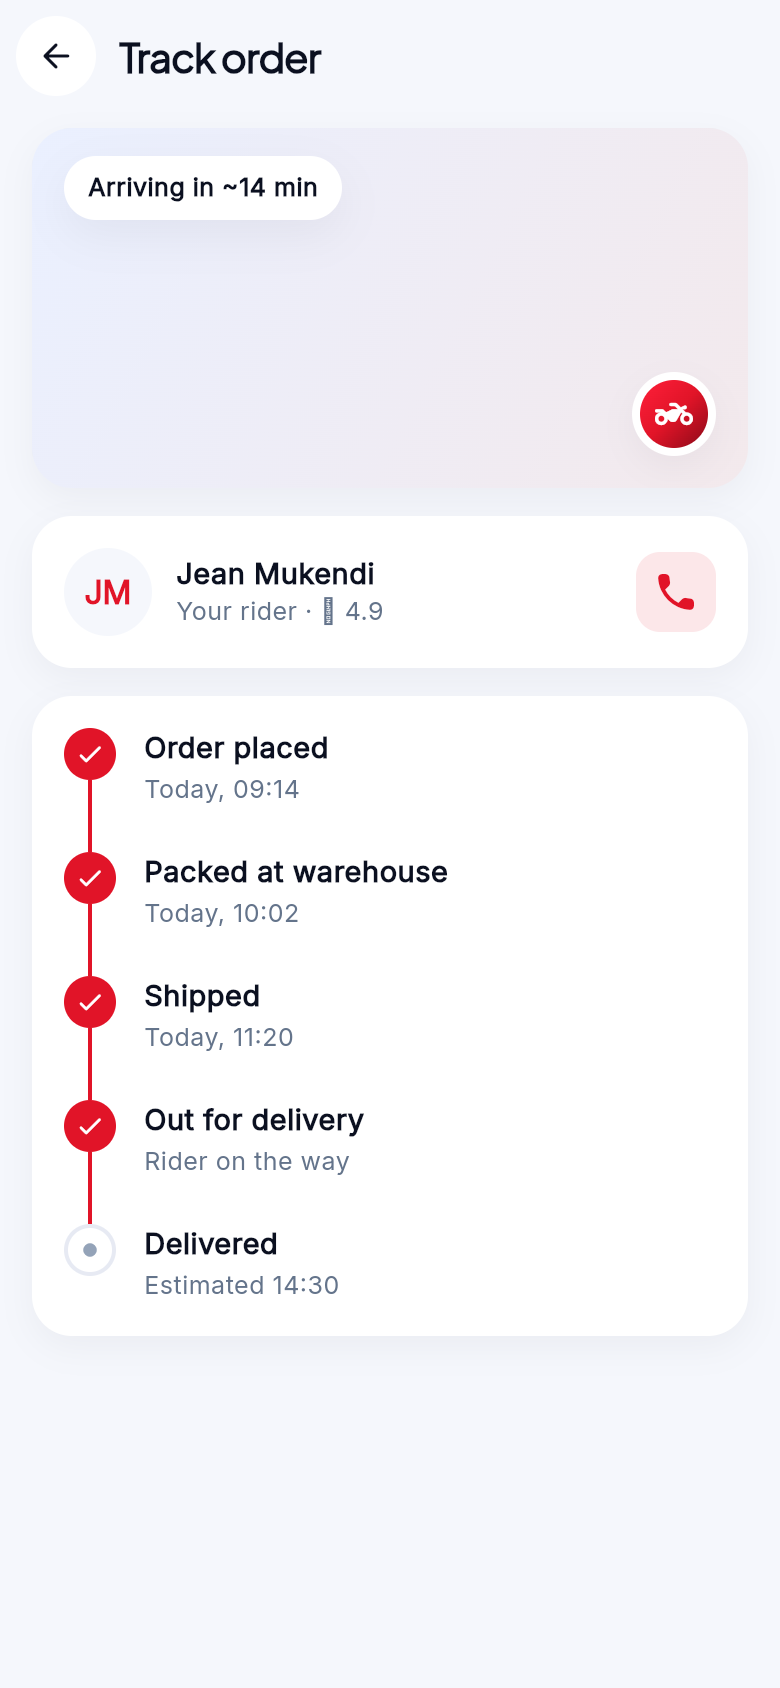
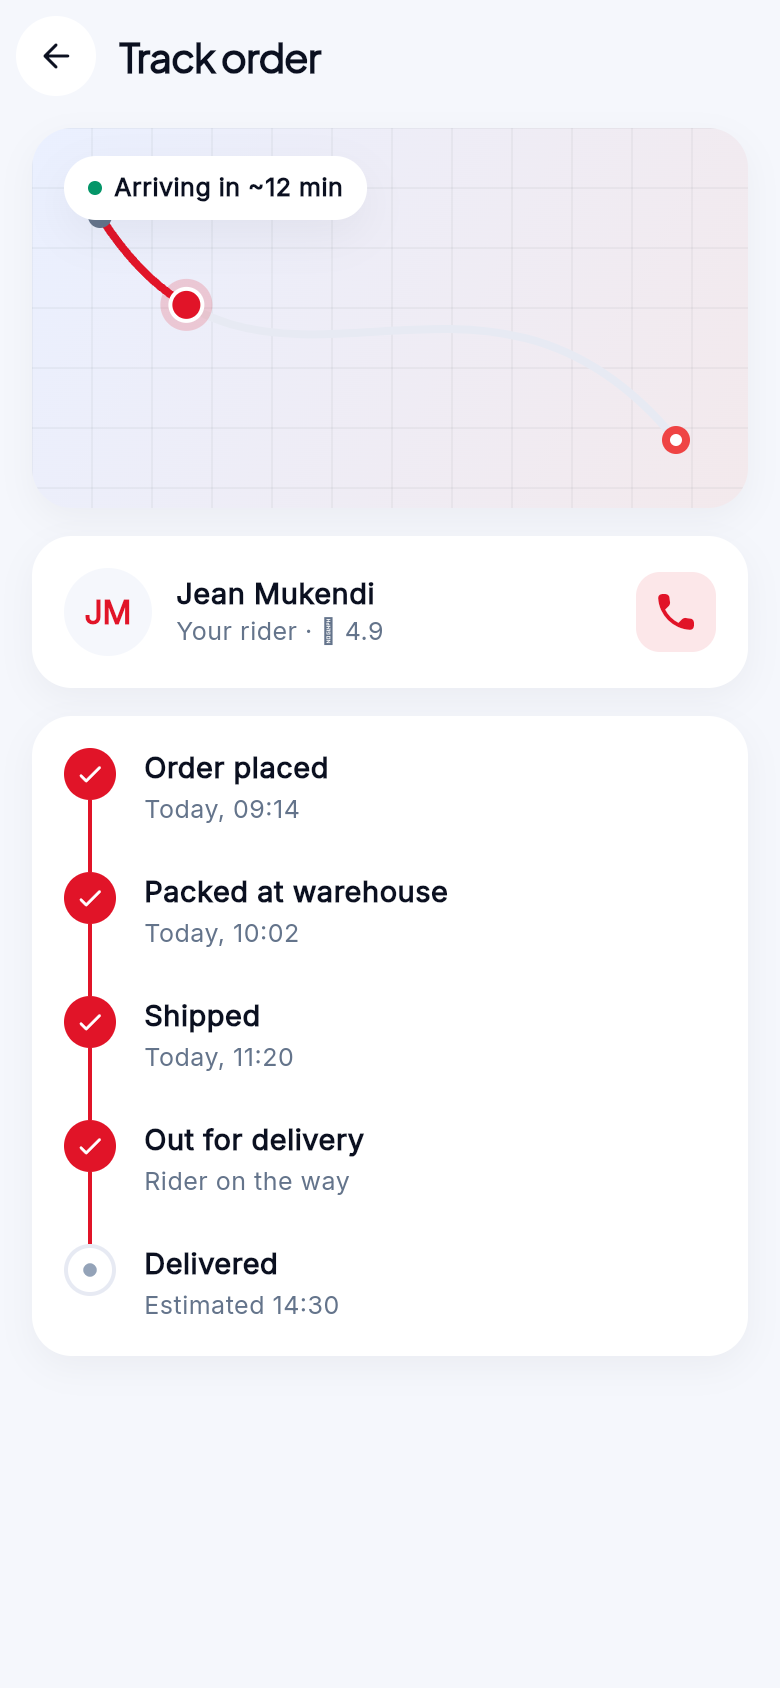
Customer app: Phase 3 detail flows (dual currency, persistence, live map) (#69)
* Customer app: Phase 3 detail flows (dual currency, persistence, live map)

- Dual-currency display: in the DRC market, prices show CDF (FC) with the
  USD equivalent underneath (product detail price, checkout total); France
  stays single-currency.
- Follow-store & session persistence: followed stores, read notifications and
  the selected delivery zone are saved via shared_preferences and restored on
  launch (ShopState.load in main, save on mutations).
- Live order tracking: animated rider marker travelling along a Bézier route
  with a highlighted travelled path and a live "Arriving in ~N min" countdown.

Adds shared_preferences dependency. flutter analyze clean, smoke test passes.

Claude-Session: https://claude.ai/code/session_01WULNhyKuKz82d48qJ3JnqT

* docs: Phase 3 screenshots (live tracking map, DRC dual-currency)

Claude-Session: https://claude.ai/code/session_01WULNhyKuKz82d48qJ3JnqT

---------

diff --git a/mobile/lib/screens/more/order_screens.dart b/mobile/lib/screens/more/order_screens.dart
@@ -101,9 +101,23 @@ class OrderDetailScreen extends StatelessWidget {
       ]);
 }
 
-class OrderTrackingScreen extends StatelessWidget {
+class OrderTrackingScreen extends StatefulWidget {
   final Locale locale;
   const OrderTrackingScreen({super.key, this.locale = const Locale('en')});
+
+  @override
+  State<OrderTrackingScreen> createState() => _OrderTrackingScreenState();
+}
+
+class _OrderTrackingScreenState extends State<OrderTrackingScreen> with SingleTickerProviderStateMixin {
+  late final AnimationController _c =
+      AnimationController(vsync: this, duration: const Duration(seconds: 16))..repeat();
+
+  @override
+  void dispose() {
+    _c.dispose();
+    super.dispose();
+  }
 
   @override
   Widget build(BuildContext context) {
@@ -112,22 +126,32 @@ class OrderTrackingScreen extends StatelessWidget {
       body: ListView(
         padding: const EdgeInsets.fromLTRB(16, 8, 16, 24),
         children: [
-          // Map preview
+          // Live map with an animated rider marker + ETA countdown.
           Container(
-            height: 180,
+            height: 190,
             decoration: BoxDecoration(borderRadius: BorderRadius.circular(20), boxShadow: AppShadow.card),
             clipBehavior: Clip.antiAlias,
-            child: Stack(children: [
-              Positioned.fill(child: CustomPaint(painter: _MiniMapPainter(), child: const DecoratedBox(
-                decoration: BoxDecoration(gradient: LinearGradient(begin: Alignment.topLeft, end: Alignment.bottomRight, colors: [Color(0xFFEAF0FF), Color(0xFFF3E9EC)])),
-              ))),
-              const Positioned(right: 16, bottom: 16, child: _Bubble(icon: Icons.two_wheeler_rounded)),
-              Positioned(left: 16, top: 14, child: Container(
-                padding: const EdgeInsets.symmetric(horizontal: 12, vertical: 7),
-                decoration: BoxDecoration(color: Colors.white, borderRadius: BorderRadius.circular(100), boxShadow: AppShadow.soft),
-                child: const Text('Arriving in ~14 min', style: TextStyle(fontWeight: FontWeight.w800, fontSize: 12.5)),
-              )),
-            ]),
+            child: AnimatedBuilder(
+              animation: _c,
+              builder: (context, _) {
+                final progress = _c.value;
+                final minsLeft = (14 * (1 - progress)).ceil().clamp(1, 14);
+                return Stack(children: [
+                  Positioned.fill(child: CustomPaint(foregroundPainter: _LiveMapPainter(progress), child: const DecoratedBox(
+                    decoration: BoxDecoration(gradient: LinearGradient(begin: Alignment.topLeft, end: Alignment.bottomRight, colors: [Color(0xFFEAF0FF), Color(0xFFF3E9EC)])),
+                  ))),
+                  Positioned(left: 16, top: 14, child: Container(
+                    padding: const EdgeInsets.symmetric(horizontal: 12, vertical: 7),
+                    decoration: BoxDecoration(color: Colors.white, borderRadius: BorderRadius.circular(100), boxShadow: AppShadow.soft),
+                    child: Row(mainAxisSize: MainAxisSize.min, children: [
+                      Container(width: 7, height: 7, decoration: const BoxDecoration(color: AppColors.success, shape: BoxShape.circle)),
+                      const SizedBox(width: 6),
+                      Text('Arriving in ~$minsLeft min', style: const TextStyle(fontWeight: FontWeight.w800, fontSize: 12.5)),
+                    ]),
+                  )),
+                ]);
+              },
+            ),
           ),
           const SizedBox(height: 14),
           Panel(
@@ -159,18 +183,10 @@ class OrderTrackingScreen extends StatelessWidget {
   }
 }
 
-class _Bubble extends StatelessWidget {
-  final IconData icon;
-  const _Bubble({required this.icon});
-  @override
-  Widget build(BuildContext context) => Container(
-        padding: const EdgeInsets.all(4),
-        decoration: BoxDecoration(color: Colors.white, shape: BoxShape.circle, boxShadow: AppShadow.card),
-        child: Container(height: 34, width: 34, decoration: const BoxDecoration(gradient: AppColors.brandGradient, shape: BoxShape.circle), child: Icon(icon, color: Colors.white, size: 19)),
-      );
-}
+class _LiveMapPainter extends CustomPainter {
+  final double progress; // 0..1 rider position along the route
+  _LiveMapPainter(this.progress);
 
-class _MiniMapPainter extends CustomPainter {
   @override
   void paint(Canvas canvas, Size size) {
     final grid = Paint()..color = const Color(0xFF0B1020).withValues(alpha: 0.04)..strokeWidth = 1;
@@ -180,11 +196,45 @@ class _MiniMapPainter extends CustomPainter {
     for (double y = 0; y < size.height; y += 30) {
       canvas.drawLine(Offset(0, y), Offset(size.width, y), grid);
     }
-    final route = Paint()..color = AppColors.primary..style = PaintingStyle.stroke..strokeWidth = 4..strokeCap = StrokeCap.round;
-    final path = Path()..moveTo(30, 40)..cubicTo(120, 90, 160, 60, size.width - 40, size.height - 30);
-    canvas.drawPath(path, route);
+
+    // Route as a cubic Bézier from warehouse (P0) to the customer (P3).
+    final p0 = Offset(34, 44);
+    final p1 = Offset(size.width * 0.32, size.height * 0.9);
+    final p2 = Offset(size.width * 0.62, size.height * 0.18);
+    final p3 = Offset(size.width - 36, size.height - 34);
+
+    final full = Paint()..color = AppColors.line..style = PaintingStyle.stroke..strokeWidth = 4..strokeCap = StrokeCap.round;
+    final done = Paint()..color = AppColors.primary..style = PaintingStyle.stroke..strokeWidth = 4..strokeCap = StrokeCap.round;
+    final path = Path()..moveTo(p0.dx, p0.dy)..cubicTo(p1.dx, p1.dy, p2.dx, p2.dy, p3.dx, p3.dy);
+    canvas.drawPath(path, full);
+
+    // Travelled portion of the path (approximate by sampling up to progress).
+    final travelled = Path()..moveTo(p0.dx, p0.dy);
+    for (double t = 0; t <= progress; t += 0.02) {
+      final pt = _bezier(p0, p1, p2, p3, t);
+      travelled.lineTo(pt.dx, pt.dy);
+    }
+    canvas.drawPath(travelled, done);
+
+    // Start & destination pins.
+    canvas.drawCircle(p0, 6, Paint()..color = AppColors.muted);
+    canvas.drawCircle(p3, 7, Paint()..color = AppColors.danger);
+    canvas.drawCircle(p3, 3, Paint()..color = Colors.white);
+
+    // Rider marker at the current position.
+    final rider = _bezier(p0, p1, p2, p3, progress);
+    canvas.drawCircle(rider, 13, Paint()..color = AppColors.primary.withValues(alpha: 0.18));
+    canvas.drawCircle(rider, 9, Paint()..color = Colors.white);
+    canvas.drawCircle(rider, 7, Paint()..color = AppColors.primary);
+  }
+
+  Offset _bezier(Offset p0, Offset p1, Offset p2, Offset p3, double t) {
+    final u = 1 - t;
+    final x = u * u * u * p0.dx + 3 * u * u * t * p1.dx + 3 * u * t * t * p2.dx + t * t * t * p3.dx;
+    final y = u * u * u * p0.dy + 3 * u * u * t * p1.dy + 3 * u * t * t * p2.dy + t * t * t * p3.dy;
+    return Offset(x, y);
   }
 
   @override
-  bool shouldRepaint(covariant CustomPainter oldDelegate) => false;
+  bool shouldRepaint(covariant _LiveMapPainter oldDelegate) => oldDelegate.progress != progress;
 }

diff --git a/mobile/lib/data/shop_state.dart b/mobile/lib/data/shop_state.dart
@@ -1,3 +1,4 @@
+import 'package:shared_preferences/shared_preferences.dart';
 import 'mock_data.dart';
 import 'promos.dart';
 
@@ -29,6 +30,35 @@ class ShopState {
   String? selectedZoneId;
 
   double promoDiscount(double subtotalUsd) => appliedPromo?.discountFor(subtotalUsd) ?? 0;
+
+  SharedPreferences? _prefs;
+
+  /// Load persisted state (followed stores, read notifications, delivery zone).
+  /// Call once at startup before runApp.
+  Future<void> load() async {
+    try {
+      _prefs = await SharedPreferences.getInstance();
+      followedStores.addAll(_prefs!.getStringList('followedStores') ?? const []);
+      readNotifications.addAll((_prefs!.getStringList('readNotifications') ?? const []).map(int.parse));
+      selectedZoneId = _prefs!.getString('selectedZoneId');
+    } catch (_) {
+      // Persistence is best-effort; ignore load failures.
+    }
+  }
+
+  /// Persist the small session-carryover state.
+  void save() {
+    final p = _prefs;
+    if (p == null) return;
+    p.setStringList('followedStores', followedStores.toList());
+    p.setStringList('readNotifications', readNotifications.map((e) => e.toString()).toList());
+    if (selectedZoneId != null) p.setString('selectedZoneId', selectedZoneId!);
+  }
+
+  void toggleFollow(String sellerId) {
+    followedStores.contains(sellerId) ? followedStores.remove(sellerId) : followedStores.add(sellerId);
+    save();
+  }
 
   ShopState._() {
     if (products.isNotEmpty) {

diff --git a/mobile/lib/screens/product_detail_screen.dart b/mobile/lib/screens/product_detail_screen.dart
@@ -140,9 +140,13 @@ class _ProductDetailScreenState extends State<ProductDetailScreen> {
                     Row(
                       crossAxisAlignment: CrossAxisAlignment.end,
                       children: [
-                        Text(money(p.price),
-                            style: const TextStyle(
-                                fontSize: 30, fontWeight: FontWeight.w800, color: AppColors.ink, letterSpacing: -1)),
+                        Column(mainAxisSize: MainAxisSize.min, crossAxisAlignment: CrossAxisAlignment.start, children: [
+                          Text(money(p.price),
+                              style: const TextStyle(
+                                  fontSize: 30, fontWeight: FontWeight.w800, color: AppColors.ink, letterSpacing: -1)),
+                          if (secondaryMoney(p.price) != null)
+                            Text(secondaryMoney(p.price)!, style: const TextStyle(fontSize: 12.5, color: AppColors.muted, fontWeight: FontWeight.w600)),
+                        ]),
                         const SizedBox(width: 10),
                         Padding(
                           padding: const EdgeInsets.only(bottom: 5),
@@ -261,11 +265,7 @@ class _ProductDetailScreenState extends State<ProductDetailScreen> {
         const SizedBox(height: 12),
         Row(children: [
           Expanded(child: OutlinedButton.icon(
-            onPressed: () {
-              setState(() {
-                following ? ShopState.instance.followedStores.remove(seller.id) : ShopState.instance.followedStores.add(seller.id);
-              });
-            },
+            onPressed: () => setState(() => ShopState.instance.toggleFollow(seller.id)),
             icon: Icon(following ? Icons.check_rounded : Icons.add_rounded, size: 18),
             label: Text(following ? 'Following' : 'Follow store'),
           )),

diff --git a/mobile/lib/screens/checkout_screen.dart b/mobile/lib/screens/checkout_screen.dart
@@ -87,7 +87,10 @@ class _CheckoutScreenState extends State<CheckoutScreen> {
               for (final z in currentMarket.zones) ...[
                 GestureDetector(
                   behavior: HitTestBehavior.opaque,
-                  onTap: () => setState(() => shop.selectedZoneId = z.id),
+                  onTap: () => setState(() {
+                    shop.selectedZoneId = z.id;
+                    shop.save();
+                  }),
                   child: Row(children: [
                     Icon(selectedZone.id == z.id ? Icons.radio_button_checked_rounded : Icons.radio_button_unchecked_rounded,
                         color: selectedZone.id == z.id ? AppColors.primary : AppColors.faint, size: 22),
@@ -159,6 +162,11 @@ class _CheckoutScreenState extends State<CheckoutScreen> {
                 ],
                 const Divider(height: 22),
                 _row(s.total, money(total), bold: true),
+                if (secondaryMoney(total) != null)
+                  Align(alignment: Alignment.centerRight, child: Padding(
+                    padding: const EdgeInsets.only(top: 4),
+                    child: Text(secondaryMoney(total)!, style: const TextStyle(color: AppColors.muted, fontSize: 12.5, fontWeight: FontWeight.w600)),
+                  )),
               ],
             ),
           ),

diff --git a/mobile/lib/util/format.dart b/mobile/lib/util/format.dart
@@ -34,6 +34,14 @@ Zone get selectedZone {
 /// Delivery fee (USD) for the selected zone in the active market.
 double get deliveryFeeUsd => selectedZone.deliveryFeeUsd;
 
+/// Secondary-currency line for dual display. In the DRC market prices show in
+/// CDF (primary via [money]) with the USD equivalent underneath; France is
+/// single-currency so this returns null.
+String? secondaryMoney(num usdValue) {
+  if (currentMarket.fxRateUsdCdf != null) return '≈ ${_usd.format(usdValue)}';
+  return null;
+}
+
 /// Compact count, e.g. `2.3k` reviews.
 String compact(num value) {
   if (value >= 1000000) return '${(value / 1000000).toStringAsFixed(1)}M';

diff --git a/mobile/lib/gallery.dart b/mobile/lib/gallery.dart
@@ -14,6 +14,8 @@ import 'screens/more/catalog_extra.dart';
 import 'screens/more/settings_extra.dart';
 import 'screens/product_detail_screen.dart';
 import 'data/mock_data.dart';
+import 'data/market_profiles.dart';
+import 'util/format.dart';
 
 void main() => runApp(const _GalleryApp());
 
@@ -29,6 +31,10 @@ Map<String, WidgetBuilder> get _screens => {
       'verify-email': (_) => const VerifyEmailScreen(),
       'product-list': (_) => const ProductListScreen(locale: _en, category: 'Electronics'),
       'product-detail': (_) => ProductDetailScreen(product: products[8], locale: _en),
+      'product-detail-drc': (_) {
+        marketNotifier.value = MarketProfileId.drc; // dual-currency (FC + ≈$)
+        return ProductDetailScreen(product: products[8], locale: _en);
+      },
       'coupons': (_) => const CouponsScreen(locale: _en),
       'review-compose': (_) => const ReviewComposeScreen(locale: _en),
       'settings': (_) => const CustomerSettingsScreen(locale: _en),

diff --git a/mobile/lib/main.dart b/mobile/lib/main.dart
@@ -2,12 +2,14 @@ import 'package:flutter/material.dart';
 import 'package:flutter/services.dart';
 import 'package:flutter_localizations/flutter_localizations.dart';
 import 'app.dart';
+import 'data/shop_state.dart';
 import 'screens/more/auth_screens.dart';
 import 'theme/app_theme.dart';
 import 'util/format.dart';
 
-void main() {
+Future<void> main() async {
   WidgetsFlutterBinding.ensureInitialized();
+  await ShopState.instance.load();
   SystemChrome.setSystemUIOverlayStyle(const SystemUiOverlayStyle(
     statusBarColor: Colors.transparent,
     statusBarIconBrightness: Brightness.dark,

diff --git a/mobile/lib/screens/more/account_more.dart b/mobile/lib/screens/more/account_more.dart
@@ -57,6 +57,7 @@ class _NotificationsScreenState extends State<NotificationsScreen> {
               ? null
               : () {
                   setState(() => _read.addAll(List.generate(_items.length, (i) => i)));
+                  ShopState.instance.save();
                   ScaffoldMessenger.of(context).showSnackBar(const SnackBar(content: Text('All notifications marked as read')));
                 },
           child: const Text('Mark all'),
@@ -72,6 +73,7 @@ class _NotificationsScreenState extends State<NotificationsScreen> {
           return GestureDetector(
             onTap: () {
               setState(() => _read.add(i));
+              ShopState.instance.save();
               ScaffoldMessenger.of(context).showSnackBar(SnackBar(content: Text(n.$7 ? 'Opening promotion…' : 'Opening ${n.$3}…')));
             },
             child: Panel(